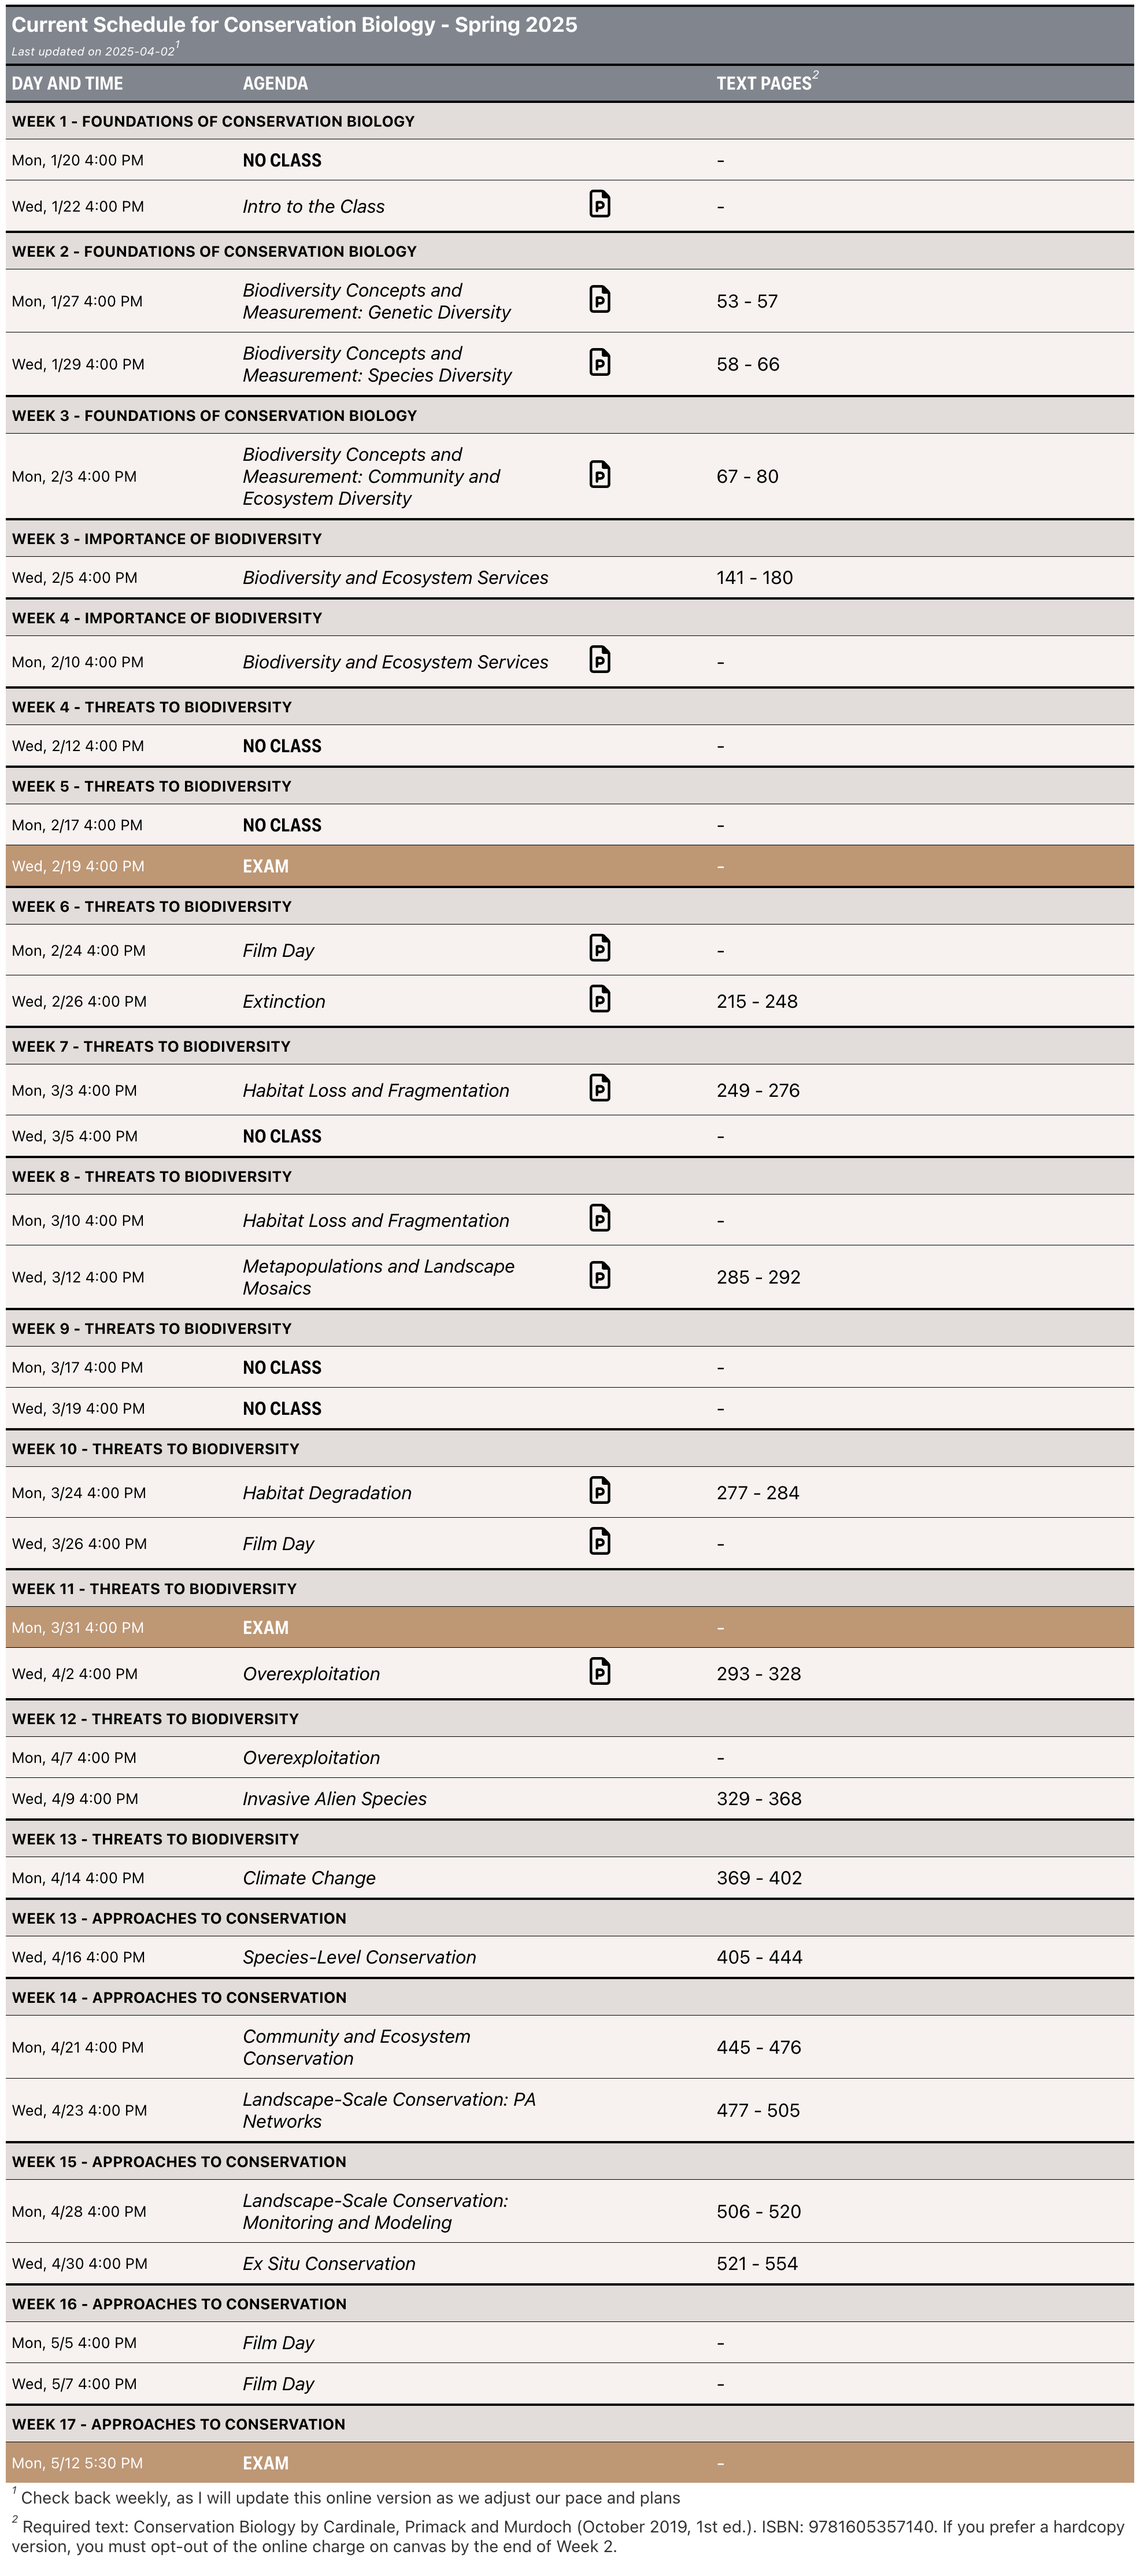
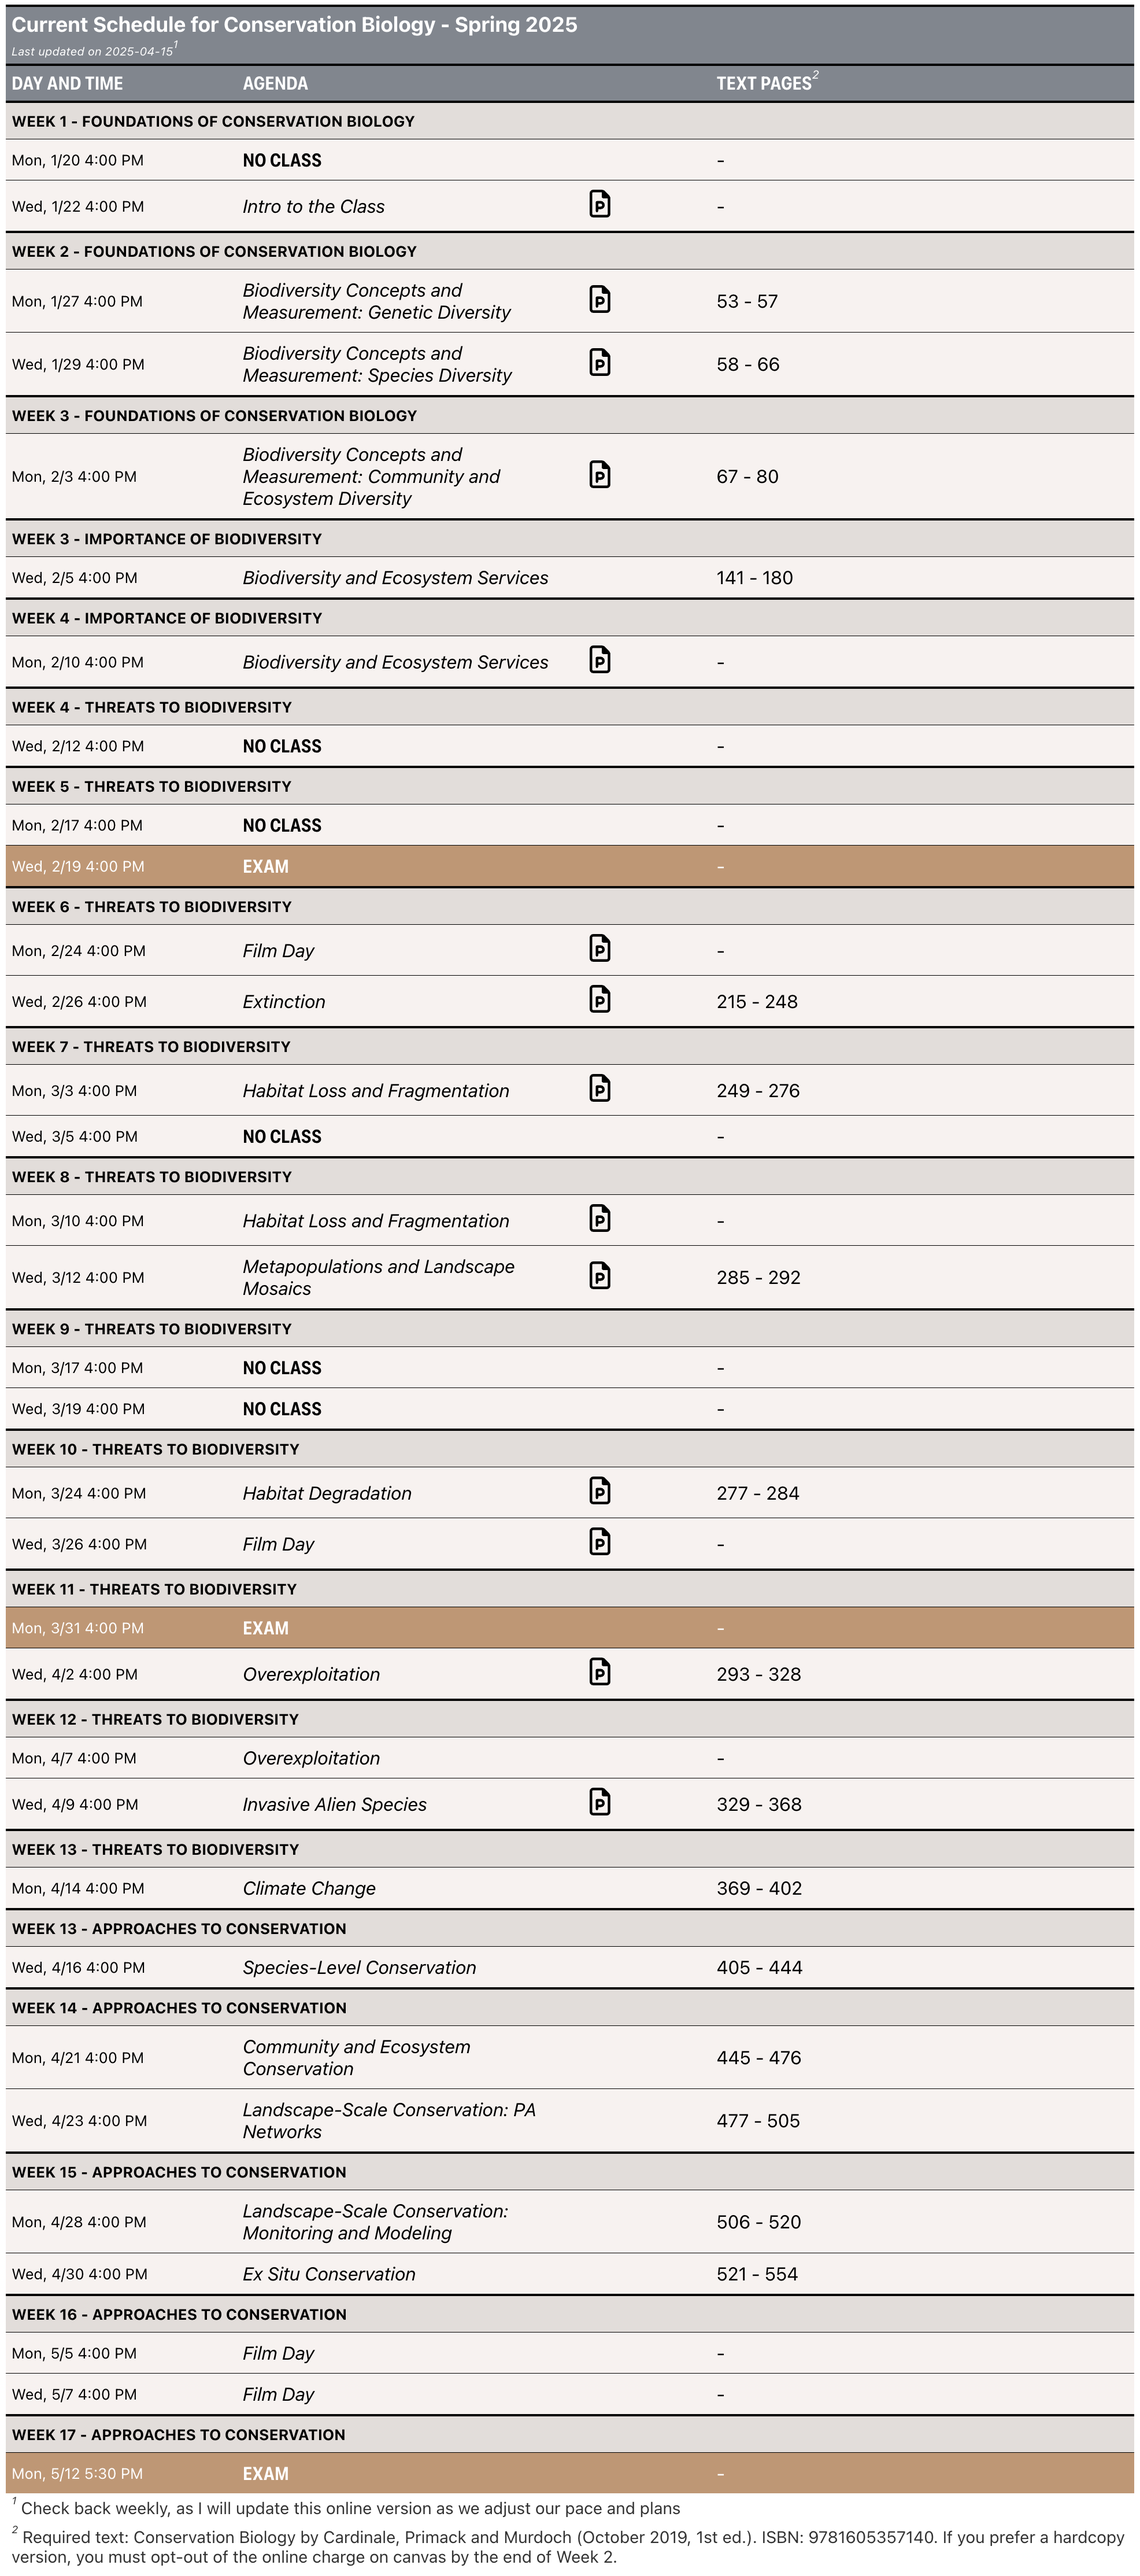
zoobio slides added

diff --git a/schedules/Schedule_ConBio.html b/schedules/Schedule_ConBio.html
@@ -7,23 +7,23 @@
 
 </head>
 <body>
-<div id="bainmailpn" style="padding-left:0px;padding-right:0px;padding-top:10px;padding-bottom:10px;overflow-x:auto;overflow-y:auto;width:auto;height:auto;">
-  <style>#bainmailpn table {
+<div id="gycdkrhttr" style="padding-left:0px;padding-right:0px;padding-top:10px;padding-bottom:10px;overflow-x:auto;overflow-y:auto;width:auto;height:auto;">
+  <style>#gycdkrhttr table {
   font-family: system-ui, 'Segoe UI', Roboto, Helvetica, Arial, sans-serif, 'Apple Color Emoji', 'Segoe UI Emoji', 'Segoe UI Symbol', 'Noto Color Emoji';
   -webkit-font-smoothing: antialiased;
   -moz-osx-font-smoothing: grayscale;
 }
 
-#bainmailpn thead, #bainmailpn tbody, #bainmailpn tfoot, #bainmailpn tr, #bainmailpn td, #bainmailpn th {
+#gycdkrhttr thead, #gycdkrhttr tbody, #gycdkrhttr tfoot, #gycdkrhttr tr, #gycdkrhttr td, #gycdkrhttr th {
   border-style: none;
 }
 
-#bainmailpn p {
+#gycdkrhttr p {
   margin: 0;
   padding: 0;
 }
 
-#bainmailpn .gt_table {
+#gycdkrhttr .gt_table {
   display: table;
   border-collapse: collapse;
   line-height: normal;
@@ -49,12 +49,12 @@
   border-left-color: #D3D3D3;
 }
 
-#bainmailpn .gt_caption {
+#gycdkrhttr .gt_caption {
   padding-top: 4px;
   padding-bottom: 4px;
 }
 
-#bainmailpn .gt_title {
+#gycdkrhttr .gt_title {
   color: #333333;
   font-size: 125%;
   font-weight: initial;
@@ -66,7 +66,7 @@
   border-bottom-width: 0;
 }
 
-#bainmailpn .gt_subtitle {
+#gycdkrhttr .gt_subtitle {
   color: #333333;
   font-size: 85%;
   font-weight: initial;
@@ -78,7 +78,7 @@
   border-top-width: 0;
 }
 
-#bainmailpn .gt_heading {
+#gycdkrhttr .gt_heading {
   background-color: #FFFFFF;
   text-align: center;
   border-bottom-color: #FFFFFF;
@@ -90,13 +90,13 @@
   border-right-color: #D3D3D3;
 }
 
-#bainmailpn .gt_bottom_border {
+#gycdkrhttr .gt_bottom_border {
   border-bottom-style: none;
   border-bottom-width: 2px;
   border-bottom-color: #D3D3D3;
 }
 
-#bainmailpn .gt_col_headings {
+#gycdkrhttr .gt_col_headings {
   border-top-style: none;
   border-top-width: 2px;
   border-top-color: #D3D3D3;
@@ -111,7 +111,7 @@
   border-right-color: #D3D3D3;
 }
 
-#bainmailpn .gt_col_heading {
+#gycdkrhttr .gt_col_heading {
   color: #333333;
   background-color: #FFFFFF;
   font-size: 100%;
@@ -131,7 +131,7 @@
   overflow-x: hidden;
 }
 
-#bainmailpn .gt_column_spanner_outer {
+#gycdkrhttr .gt_column_spanner_outer {
   color: #333333;
   background-color: #FFFFFF;
   font-size: 100%;
@@ -143,15 +143,15 @@
   padding-right: 4px;
 }
 
-#bainmailpn .gt_column_spanner_outer:first-child {
+#gycdkrhttr .gt_column_spanner_outer:first-child {
   padding-left: 0;
 }
 
-#bainmailpn .gt_column_spanner_outer:last-child {
+#gycdkrhttr .gt_column_spanner_outer:last-child {
   padding-right: 0;
 }
 
-#bainmailpn .gt_column_spanner {
+#gycdkrhttr .gt_column_spanner {
   border-bottom-style: none;
   border-bottom-width: 2px;
   border-bottom-color: #D3D3D3;
@@ -163,11 +163,11 @@
   width: 100%;
 }
 
-#bainmailpn .gt_spanner_row {
+#gycdkrhttr .gt_spanner_row {
   border-bottom-style: hidden;
 }
 
-#bainmailpn .gt_group_heading {
+#gycdkrhttr .gt_group_heading {
   padding-top: 8px;
   padding-bottom: 8px;
   padding-left: 5px;
@@ -193,7 +193,7 @@
   text-align: left;
 }
 
-#bainmailpn .gt_empty_group_heading {
+#gycdkrhttr .gt_empty_group_heading {
   padding: 0.5px;
   color: #333333;
   background-color: #FFFFFF;
@@ -208,15 +208,15 @@
   vertical-align: middle;
 }
 
-#bainmailpn .gt_from_md > :first-child {
+#gycdkrhttr .gt_from_md > :first-child {
   margin-top: 0;
 }
 
-#bainmailpn .gt_from_md > :last-child {
+#gycdkrhttr .gt_from_md > :last-child {
   margin-bottom: 0;
 }
 
-#bainmailpn .gt_row {
+#gycdkrhttr .gt_row {
   padding-top: 8px;
   padding-bottom: 8px;
   padding-left: 5px;
@@ -235,7 +235,7 @@
   overflow-x: hidden;
 }
 
-#bainmailpn .gt_stub {
+#gycdkrhttr .gt_stub {
   color: #333333;
   background-color: #FFFFFF;
   font-size: 100%;
@@ -248,7 +248,7 @@
   padding-right: 5px;
 }
 
-#bainmailpn .gt_stub_row_group {
+#gycdkrhttr .gt_stub_row_group {
   color: #333333;
   background-color: #FFFFFF;
   font-size: 100%;
@@ -262,15 +262,15 @@
   vertical-align: top;
 }
 
-#bainmailpn .gt_row_group_first td {
+#gycdkrhttr .gt_row_group_first td {
   border-top-width: 2px;
 }
 
-#bainmailpn .gt_row_group_first th {
+#gycdkrhttr .gt_row_group_first th {
   border-top-width: 2px;
 }
 
-#bainmailpn .gt_summary_row {
+#gycdkrhttr .gt_summary_row {
   color: #333333;
   background-color: #FFFFFF;
   text-transform: inherit;
@@ -280,16 +280,16 @@
   padding-right: 5px;
 }
 
-#bainmailpn .gt_first_summary_row {
+#gycdkrhttr .gt_first_summary_row {
   border-top-style: none;
   border-top-color: #D3D3D3;
 }
 
-#bainmailpn .gt_first_summary_row.thick {
+#gycdkrhttr .gt_first_summary_row.thick {
   border-top-width: 2px;
 }
 
-#bainmailpn .gt_last_summary_row {
+#gycdkrhttr .gt_last_summary_row {
   padding-top: 8px;
   padding-bottom: 8px;
   padding-left: 5px;
@@ -299,7 +299,7 @@
   border-bottom-color: #D3D3D3;
 }
 
-#bainmailpn .gt_grand_summary_row {
+#gycdkrhttr .gt_grand_summary_row {
   color: #333333;
   background-color: #FFFFFF;
   text-transform: inherit;
@@ -309,7 +309,7 @@
   padding-right: 5px;
 }
 
-#bainmailpn .gt_first_grand_summary_row {
+#gycdkrhttr .gt_first_grand_summary_row {
   padding-top: 8px;
   padding-bottom: 8px;
   padding-left: 5px;
@@ -319,7 +319,7 @@
   border-top-color: #D3D3D3;
 }
 
-#bainmailpn .gt_last_grand_summary_row_top {
+#gycdkrhttr .gt_last_grand_summary_row_top {
   padding-top: 8px;
   padding-bottom: 8px;
   padding-left: 5px;
@@ -329,11 +329,11 @@
   border-bottom-color: #D3D3D3;
 }
 
-#bainmailpn .gt_striped {
+#gycdkrhttr .gt_striped {
   background-color: rgba(128, 128, 128, 0.05);
 }
 
-#bainmailpn .gt_table_body {
+#gycdkrhttr .gt_table_body {
   border-top-style: none;
   border-top-width: 2px;
   border-top-color: #D3D3D3;
@@ -342,7 +342,7 @@
   border-bottom-color: #D3D3D3;
 }
 
-#bainmailpn .gt_footnotes {
+#gycdkrhttr .gt_footnotes {
   color: #333333;
   background-color: #FFFFFF;
   border-bottom-style: none;
@@ -356,7 +356,7 @@
   border-right-color: #D3D3D3;
 }
 
-#bainmailpn .gt_footnote {
+#gycdkrhttr .gt_footnote {
   margin: 0px;
   font-size: 90%;
   padding-top: 4px;
@@ -365,7 +365,7 @@
   padding-right: 5px;
 }
 
-#bainmailpn .gt_sourcenotes {
+#gycdkrhttr .gt_sourcenotes {
   color: #333333;
   background-color: #FFFFFF;
   border-bottom-style: none;
@@ -379,7 +379,7 @@
   border-right-color: #D3D3D3;
 }
 
-#bainmailpn .gt_sourcenote {
+#gycdkrhttr .gt_sourcenote {
   font-size: 90%;
   padding-top: 4px;
   padding-bottom: 4px;
@@ -387,72 +387,72 @@
   padding-right: 5px;
 }
 
-#bainmailpn .gt_left {
+#gycdkrhttr .gt_left {
   text-align: left;
 }
 
-#bainmailpn .gt_center {
+#gycdkrhttr .gt_center {
   text-align: center;
 }
 
-#bainmailpn .gt_right {
+#gycdkrhttr .gt_right {
   text-align: right;
   font-variant-numeric: tabular-nums;
 }
 
-#bainmailpn .gt_font_normal {
+#gycdkrhttr .gt_font_normal {
   font-weight: normal;
 }
 
-#bainmailpn .gt_font_bold {
+#gycdkrhttr .gt_font_bold {
   font-weight: bold;
 }
 
-#bainmailpn .gt_font_italic {
+#gycdkrhttr .gt_font_italic {
   font-style: italic;
 }
 
-#bainmailpn .gt_super {
+#gycdkrhttr .gt_super {
   font-size: 65%;
 }
 
-#bainmailpn .gt_footnote_marks {
+#gycdkrhttr .gt_footnote_marks {
   font-size: 75%;
   vertical-align: 0.4em;
   position: initial;
 }
 
-#bainmailpn .gt_asterisk {
+#gycdkrhttr .gt_asterisk {
   font-size: 100%;
   vertical-align: 0;
 }
 
-#bainmailpn .gt_indent_1 {
+#gycdkrhttr .gt_indent_1 {
   text-indent: 5px;
 }
 
-#bainmailpn .gt_indent_2 {
+#gycdkrhttr .gt_indent_2 {
   text-indent: 10px;
 }
 
-#bainmailpn .gt_indent_3 {
+#gycdkrhttr .gt_indent_3 {
   text-indent: 15px;
 }
 
-#bainmailpn .gt_indent_4 {
+#gycdkrhttr .gt_indent_4 {
   text-indent: 20px;
 }
 
-#bainmailpn .gt_indent_5 {
+#gycdkrhttr .gt_indent_5 {
   text-indent: 25px;
 }
 
-#bainmailpn .katex-display {
+#gycdkrhttr .katex-display {
   display: inline-flex !important;
   margin-bottom: 0.75em !important;
 }
 
-#bainmailpn div.Reactable > div.rt-table > div.rt-thead > div.rt-tr.rt-tr-group-header > div.rt-th-group:after {
+#gycdkrhttr div.Reactable > div.rt-table > div.rt-thead > div.rt-tr.rt-tr-group-header > div.rt-th-group:after {
   height: 0px !important;
 }
 </style>
@@ -468,7 +468,7 @@
       <td colspan="4" class="gt_heading gt_title gt_font_normal" style="color: #FFFFFF; font-size: large; text-align: left; font-weight: bold; background-color: rgba(76,82,94,0.7); border-top-width: 2px; border-top-style: solid; border-top-color: #000000;">Current Schedule for Conservation Biology - Spring 2025</td>
     </tr>
     <tr class="gt_heading">
-      <td colspan="4" class="gt_heading gt_subtitle gt_font_normal gt_bottom_border" style="color: #FFFFFF; font-size: x-small; text-align: left; font-style: oblique; background-color: rgba(76,82,94,0.7); border-top-width: 1px; border-top-style: hidden; border-top-color: #000000;">Last updated on 2025-04-02<span class="gt_footnote_marks" style="white-space:nowrap;font-style:italic;font-weight:normal;line-height:0;"><sup>1</sup></span></td>
+      <td colspan="4" class="gt_heading gt_subtitle gt_font_normal gt_bottom_border" style="color: #FFFFFF; font-size: x-small; text-align: left; font-style: oblique; background-color: rgba(76,82,94,0.7); border-top-width: 1px; border-top-style: hidden; border-top-color: #000000;">Last updated on 2025-04-15<span class="gt_footnote_marks" style="white-space:nowrap;font-style:italic;font-weight:normal;line-height:0;"><sup>1</sup></span></td>
     </tr>
     <tr class="gt_col_headings">
       <th class="gt_col_heading gt_columns_bottom_border gt_left" rowspan="1" colspan="1" style="color: #FFFFFF; text-align: left; font-weight: bold; font-stretch: condensed; text-transform: uppercase; background-color: rgba(76,82,94,0.7); border-top-width: 2px; border-top-style: solid; border-top-color: #000000;" scope="col" id="Start">Day and Time</th>
@@ -614,7 +614,7 @@
 <td headers="Week 12 - Threats to Biodiversity  key" class="gt_row gt_left" style="color: #000000; background-color: rgba(216,192,182,0.2); border-top-width: 0.5px; border-top-style: solid; border-top-color: #000000;">-</td></tr>
     <tr><td headers="Week 12 - Threats to Biodiversity  Start" class="gt_row gt_left" style="font-size: small; color: #000000; background-color: rgba(216,192,182,0.2); border-top-width: 0.5px; border-top-style: solid; border-top-color: #000000;">Wed, 4/9 4:00 PM</td>
 <td headers="Week 12 - Threats to Biodiversity  Agenda" class="gt_row gt_left" style="font-style: italic; color: #000000; background-color: rgba(216,192,182,0.2); border-top-width: 0.5px; border-top-style: solid; border-top-color: #000000;">Invasive Alien Species</td>
-<td headers="Week 12 - Threats to Biodiversity  Slides" class="gt_row gt_left" style="color: #000000; background-color: rgba(216,192,182,0.2); border-top-width: 0.5px; border-top-style: solid; border-top-color: #000000;"><br /></td>
+<td headers="Week 12 - Threats to Biodiversity  Slides" class="gt_row gt_left" style="color: #000000; background-color: rgba(216,192,182,0.2); border-top-width: 0.5px; border-top-style: solid; border-top-color: #000000;"><span style="white-space: pre;"><a href="" target="_blank" style="color:#000000;text-decoration:underline;text-underline-position: under;display: inline-block;"><svg aria-hidden="true" role="img" viewBox="0 0 384 512" style="height:1.5em;width:1.12em;vertical-align:0em;margin-left:auto;margin-right:auto;font-size:inherit;fill:currentColor;overflow:visible;position:relative;"><path d="M64 464c-8.8 0-16-7.2-16-16V64c0-8.8 7.2-16 16-16H224v80c0 17.7 14.3 32 32 32h80V448c0 8.8-7.2 16-16 16H64zM64 0C28.7 0 0 28.7 0 64V448c0 35.3 28.7 64 64 64H320c35.3 0 64-28.7 64-64V154.5c0-17-6.7-33.3-18.7-45.3L274.7 18.7C262.7 6.7 246.5 0 229.5 0H64zm72 208c-13.3 0-24 10.7-24 24V336v56c0 13.3 10.7 24 24 24s24-10.7 24-24V360h44c42 0 76-34 76-76s-34-76-76-76H136zm68 104H160V256h44c15.5 0 28 12.5 28 28s-12.5 28-28 28z"/></svg></a></span></td>
 <td headers="Week 12 - Threats to Biodiversity  key" class="gt_row gt_left" style="color: #000000; background-color: rgba(216,192,182,0.2); border-top-width: 0.5px; border-top-style: solid; border-top-color: #000000;">329 - 368</td></tr>
     <tr class="gt_group_heading_row">
       <th colspan="4" class="gt_group_heading" style="color: #000000; font-size: small; font-weight: bold; text-transform: uppercase; background-color: rgba(213,207,202,0.7); border-top-width: 2px; border-top-style: solid; border-top-color: #000000;" scope="colgroup" id="Week 13 - Threats to Biodiversity">Week 13 - Threats to Biodiversity</th>
